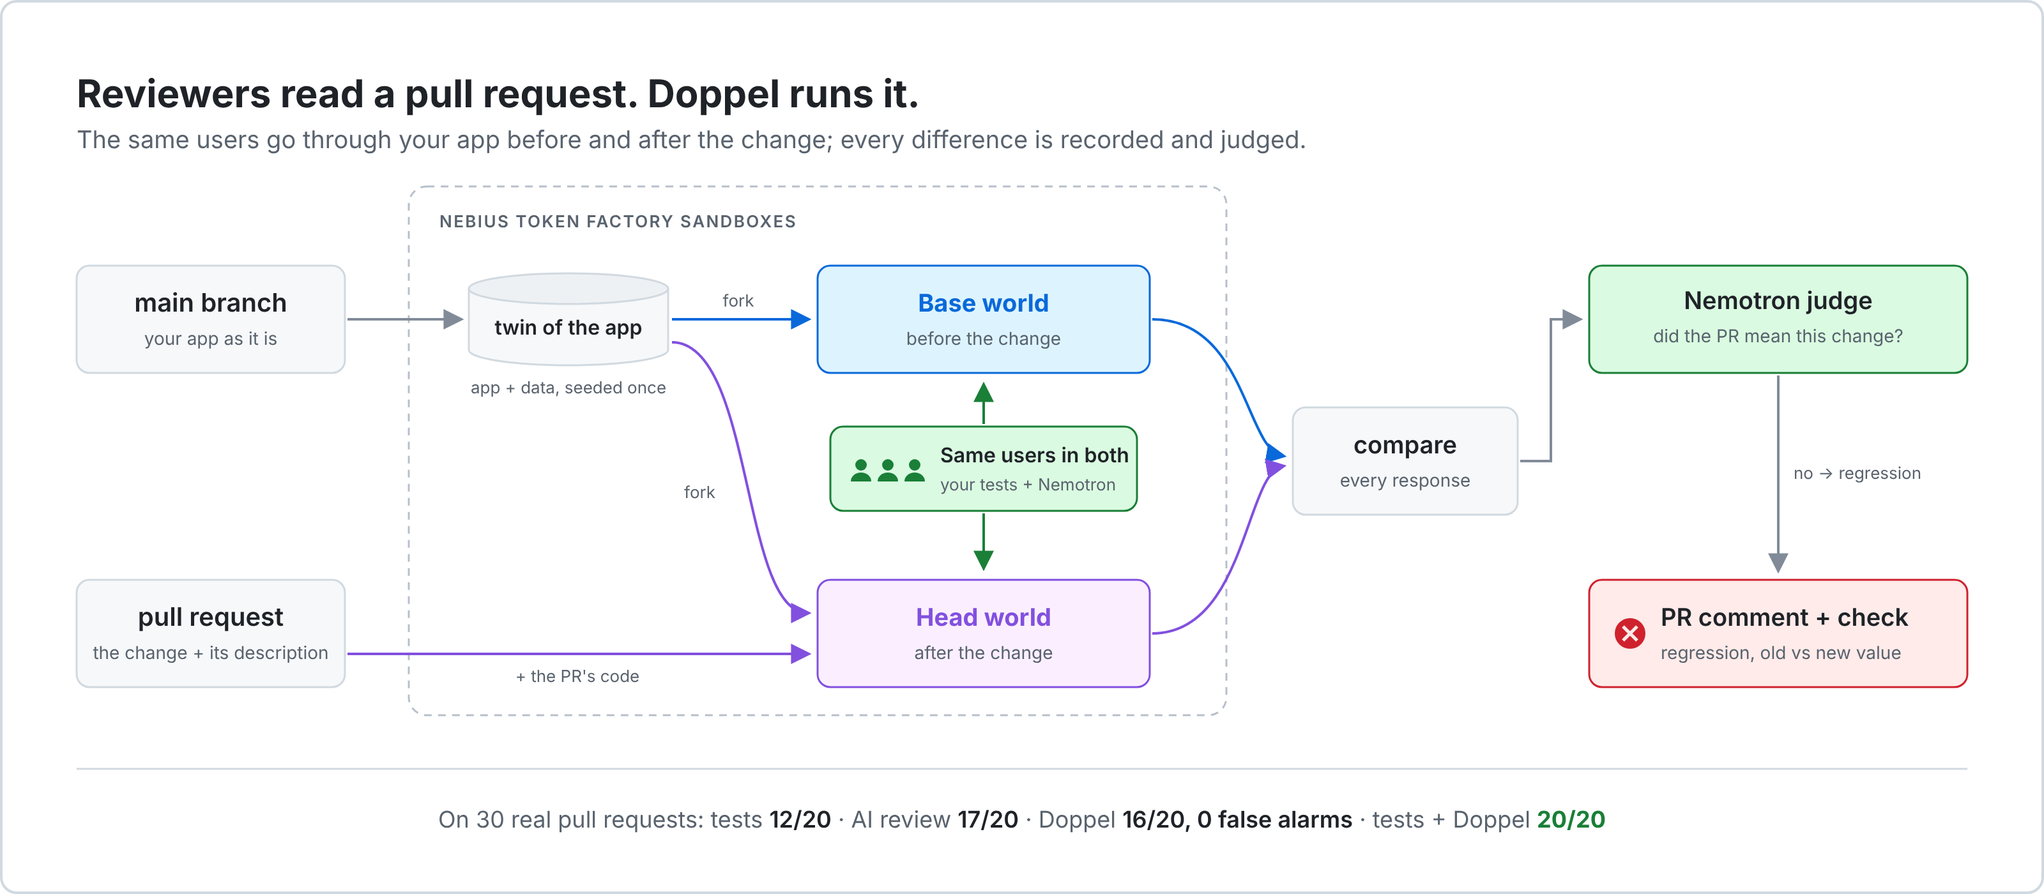
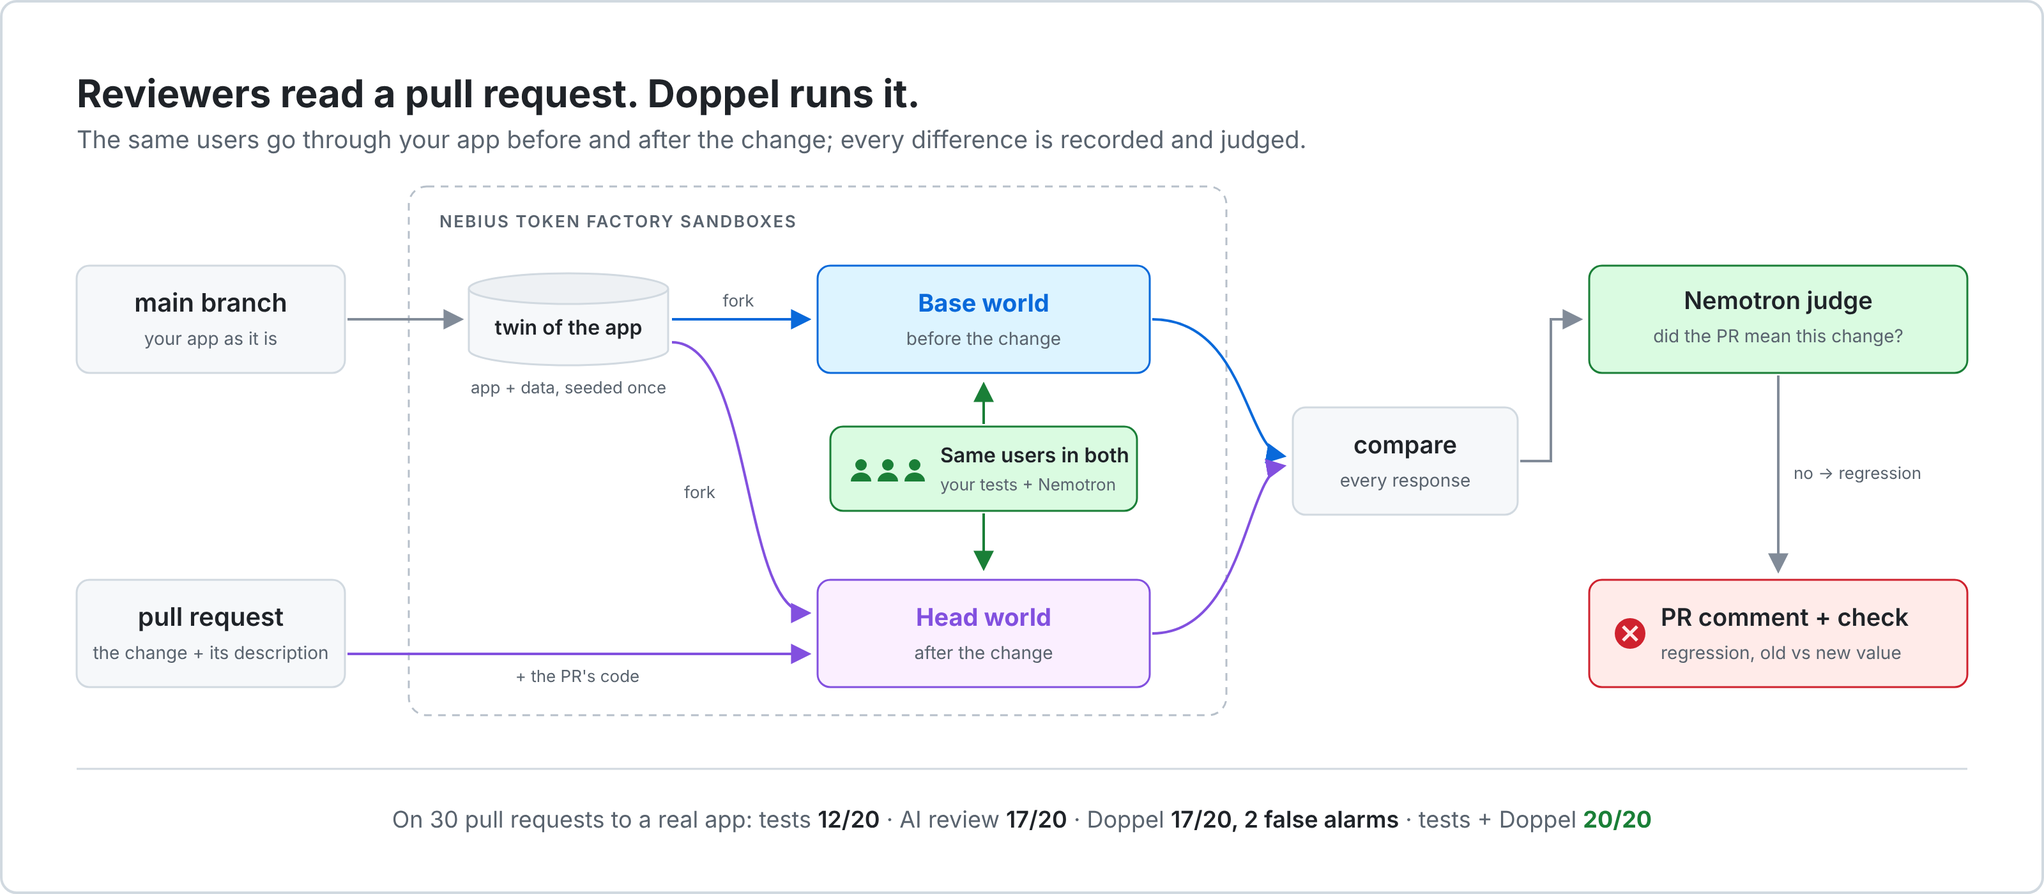
Doppel 1.1.0: masked replay page, init and Try fixes, docs and site match the README numbers
Claude-Session: https://claude.ai/code/session_01Xgti2rmVWC3UhGpJnbEqaD

Changed region(s): [[0.1875, 0.8907, 0.8125, 0.9521]]

diff --git a/try/site/index.html b/try/site/index.html
@@ -195,7 +195,7 @@ footer .wrap { display: flex; flex-wrap: wrap; justify-content: space-between; g
         <p class="says"><b>The PR says:</b> “Back <code>has_password</code> with the actual column so the OpenAPI docs describe it.”</p>
       </div>
       <div class="req"><span>GET /api/users</span><span class="who">from test_auth.py::test_get_token</span></div>
-<pre class="diff"><span class="ctx">  data[0].password_hash</span><span class="del">- (absent)</span><span class="add">+ <b>"scrypt:32768:8:1$vOQdSi9zHZhK00Np$22cfbfb7…"</b></span></pre>
+<pre class="diff"><span class="ctx">  data.*.password_hash (added)</span><span class="del">- no password_hash</span><span class="add">+ <b>"scrypt:32768:8:1$[hidden]"</b></span></pre>
       <div class="ev-why">
         <p>The same field appeared on <b>14 endpoints</b>, in <b>38 requests</b> from 25 tests. No test asserts on it.</p>
         <blockquote>“The diff adds password_hash as a dump_only auto_field, exposing the actual password hash in API

diff --git a/tests/test_final_gaps.py b/tests/test_final_gaps.py
@@ -1,0 +1,124 @@
+"""Gaps found by reading the whole code base line by line (October 2026): each one pinned here."""
+import json
+from pathlib import Path
+
+import yaml
+
+from doppel import bootstrap, cli
+from doppel.diff import Finding
+from doppel.judge import Verdict
+from doppel.report import markdown
+
+HASH = "scrypt:32768:8:1$vOQdSi9zHZhK00Np$22cfbfb704f124cb1e05530805196c98f974925ffe12315e77581c4569b7452"
+ROOT = Path(__file__).resolve().parent.parent
+
+
+def run_json(tmp_path: Path) -> Path:
+    step = {"i": 0, "request": "GET /api/users", "status": 200, "ms": 3.0}
+    raw = {"findings": [{"kind": "body", "persona": "alice", "step": 0, "request": "GET /api/users",
+                         "detail": "changed: password_hash (added)", "base": {"password_hash": "(absent)"},
+                         "head": {"password_hash": HASH}}],
+           "worlds": {"base": [{"persona": "alice", "steps": [{**step, "body": {"id": 1}}]}],
+                      "head": [{"persona": "alice", "steps": [{**step, "body": {"id": 1, "password_hash": HASH}}]}]}}
+    path = tmp_path / "run.json"
+    path.write_text(json.dumps(raw), encoding="utf-8")
+    return path
+
+
+def test_the_replay_page_the_action_publishes_is_masked(tmp_path):
+    # action.yml publishes the twin's run page as replay.html next to the check page: it must be masked too
+    path = run_json(tmp_path)
+    assert cli.main(["view", str(path), "--no-open", "--out", str(tmp_path / "local.html")]) == 0
+    assert HASH in (tmp_path / "local.html").read_text("utf-8")          # your own machine: the raw evidence
+    assert cli.main(["view", str(path), "--no-open", "--public", "--out", str(tmp_path / "public.html")]) == 0
+    page = (tmp_path / "public.html").read_text("utf-8")
+    assert HASH not in page and "scrypt:32768:8:1$" in page             # the leak stays visible, the hash doesn't
+    action = (ROOT / "action.yml").read_text(encoding="utf-8")
+    run_view = next(line for line in action.splitlines() if "doppel view .doppel/out/run.json" in line)
+    assert "--public" in run_view
+
+
+def test_a_public_run_page_that_would_show_a_credential_is_never_written(tmp_path, monkeypatch):
+    path = run_json(tmp_path)
+    data = json.loads(path.read_text("utf-8"))
+    data["worlds"]["head"][0]["steps"][0]["body"]["note"] = "key nb-live-0123456789abcdef"
+    path.write_text(json.dumps(data), encoding="utf-8")
+    monkeypatch.setenv("NEBIUS_API_KEY", "nb-live-0123456789abcdef")
+    assert cli.main(["view", str(path), "--no-open", "--public", "--out", str(tmp_path / "p.html")]) == 2
+    assert not (tmp_path / "p.html").exists()
+
+
+def test_init_check_reads_the_front_door_seed_file_too(tmp_path, monkeypatch):
+    (tmp_path / "app.py").write_text("print('app')\n", encoding="utf-8")
+    (tmp_path / "doppel.toml").write_text('[app]\nstart = "python app.py"\nready = "/"\n'
+                                          'seed_requests = "doppel_seed.json"\n', encoding="utf-8")
+    (tmp_path / "doppel_seed.json").write_text(json.dumps(
+        [{"method": "POST", "path": "/api/users", "json": {"username": "alice", "password": "secret"}}]),
+        encoding="utf-8")
+    monkeypatch.setattr(bootstrap, "try_files", lambda *a, **k: {"ok": True})
+    result = bootstrap.check(tmp_path, backend="local", log=lambda m: None)
+    found = [p for _, problems in result["checks"] for p in problems]
+    assert not any("no doppel_seed.json was returned" in p for p in found)
+
+
+def test_a_swapped_package_keeps_its_version_pin(tmp_path):
+    (tmp_path / "requirements.txt").write_text("flask==3.0\npsycopg2==2.9.9\nuwsgi>=2\n", encoding="utf-8")
+    assert bootstrap.derived_install(tmp_path) == "pip install --quiet 'flask==3.0' 'psycopg2-binary==2.9.9'"
+
+
+def test_401_and_403_are_different_errors_but_ports_and_ids_still_blur():
+    assert not bootstrap.same_error("the login step POST /api/tokens answered 401",
+                                    "the login step POST /api/tokens answered 403")
+    assert bootstrap.same_error("GET /api/users/7 -> 404: not found", "GET /api/users/12 -> 404: not found")
+    assert bootstrap.same_error("could not connect to 127.0.0.1:8123", "could not connect to 127.0.0.1:9440")
+    assert not bootstrap.same_error("GET /api/me -> 401", "GET /api/me -> 500")
+
+
+def test_the_heading_counts_distinct_changes_after_the_judges_own_rules():
+    # the secret rule gives each finding of one change its own (equal) verdict: still one change, not two
+    findings = [Finding("body", f"t{i}", 0, f"GET /api/users/{i}", "changed: password_hash (added)",
+                        {"password_hash": "(absent)"}, {"password_hash": HASH}) for i in (1, 2)]
+    why = "Changes `password_hash`, a field that looks like it holds a secret."
+    verdicts = [Verdict("needs_human", why), Verdict("needs_human", why)]
+    md = markdown(findings, 2, 2, {"verdicts": verdicts, "summary": ""}, who="test")
+    assert "0 regression · 1 need a human · 0 intended" in md
+
+
+def test_refuted_suspicions_look_the_same_in_the_comment_and_on_the_page():
+    from doppel import report
+    assert report.CHECK["refuted"] == "⚪ refuted"
+
+
+def test_the_example_workflow_can_publish_its_check_page():
+    flow = yaml.safe_load((ROOT / "examples" / "demo-repo" / "main" / "doppel.yml").read_text(encoding="utf-8"))
+    assert flow["permissions"] == {"contents": "write", "pull-requests": "write"}
+
+
+def test_declined_try_issues_do_not_use_up_the_day(monkeypatch):
+    import datetime as dt
+    import importlib.util
+    spec = importlib.util.spec_from_file_location("try_pr", ROOT / "try" / "scripts" / "try_pr.py")
+    mod = importlib.util.module_from_spec(spec)
+    spec.loader.exec_module(mod)
+    asked = []
+    monkeypatch.setattr(mod, "_request", lambda method, path, body=None: asked.append(path) or {"total_count": 3})
+    assert mod.runs_today("me/doppel-try", dt.datetime(2026, 10, 25, tzinfo=dt.UTC)) == 3
+    assert "-label%3A%22not%20run%22" in asked[0]
+
+
+def test_the_replay_site_shows_the_numbers_the_readme_quotes(tmp_path):
+    from doppel import site
+    grouping = ROOT / "bench" / "results" / "guided-rerun-grouping"
+    if not (grouping / "r17-hash-leak.json").exists():
+        return   # the recorded benchmark results aren't in this checkout
+    s = site.bench_scores(ROOT / "bench" / "results", guided=grouping)
+    assert {k: (v["caught"], v.get("alarms")) for k, v in s.items()} == {
+        "tests": (12, 0), "review": (17, 1), "doppel_guided": (17, 2), "tests_plus_guided": (20, None)}
+    cfg = json.loads((ROOT / "site" / "gallery.json").read_text(encoding="utf-8"))
+    assert cfg["bench_guided"] == "bench/results/guided-rerun-grouping"
+    chart = (ROOT / cfg["chart"]).read_text(encoding="utf-8")
+    assert ">17/20<" in chart and ">2/10<" in chart and ">16/20<" not in chart
+
+
+def test_a_pr_that_edits_the_front_door_seed_gets_the_setup_warning():
+    assert "doppel_seed.json" in cli.SETUP_FILES

diff --git a/src/doppel/cli.py b/src/doppel/cli.py
@@ -158,7 +158,7 @@ def cmd_tests(a) -> int:
     return 0
 
 
-SETUP_FILES = ("doppel.toml", "doppel_seed.py", "doppel-personas.json")
+SETUP_FILES = ("doppel.toml", "doppel_seed.py", "doppel_seed.json", "doppel-personas.json")
 
 
 def load_spec(base, head, explicit: str | None = None) -> TwinSpec:
@@ -268,7 +268,7 @@ def cmd_view(a) -> int:
     if is_check(path):
         out = write_check_view(path, Path(a.out) if a.out else None, public=getattr(a, "public", False))
     elif is_run(path):
-        out = write_run_view(path, Path(a.out) if a.out else None)
+        out = write_run_view(path, Path(a.out) if a.out else None, public=getattr(a, "public", False))
     elif is_trace(path):
         out = write_view(path, Path(a.out) if a.out else None)
     else:
@@ -353,7 +353,8 @@ def main(argv=None) -> int:
     g.add_argument("-n", type=int, default=12, help="how many personas")
     g.add_argument("--model", help="default: $PERSONA_MODEL or nvidia/Nemotron-3_5-Lightning")
     g.add_argument("--out", default="personas.json")
-    i = sub.add_parser("init", help="write doppel.toml and doppel_seed.py for an app, checked in the twin")
+    i = sub.add_parser("init", help="write doppel.toml and a seed (doppel_seed.json / .py) for an app, "
+                                    "checked in the twin")
     i.add_argument("app", nargs="?", default=".", help="the app's folder (default: current folder)")
     i.add_argument("--backend", choices=["local", "nebius"], default="nebius",
                    help="where to try the setup (local uses your current Python environment)")
@@ -368,12 +369,13 @@ def main(argv=None) -> int:
     i.add_argument("--trace", action="store_true",
                    help="save every attempt (prompt, reply, checks, boot, evidence) to .doppel-trace/")
     i.add_argument("--check", action="store_true",
-                   help="test the doppel.toml and doppel_seed.py already in the app, without drafting")
+                   help="test the doppel.toml and seed already in the app, without drafting")
     i.add_argument("--calibrate", action="store_true",
                    help="with --check: also replay invented users (costs model calls and a second boot)")
-    i.add_argument("--force", action="store_true", help="overwrite existing doppel.toml / doppel_seed.py")
+    i.add_argument("--force", action="store_true", help="overwrite existing doppel.toml / seed files")
     i.add_argument("--keep-draft", action="store_true", help="write the last draft even if it failed")
-    v = sub.add_parser("view", help="turn a run (run.json) or an init trace into a web page and open it")
+    v = sub.add_parser("view", help="turn a run (run.json), a check (check.json) or an init trace into a web "
+                                    "page and open it")
     v.add_argument("path", nargs="?", default=".doppel-trace",
                    help="run.json, a folder holding it, or an init trace folder (default: .doppel-trace)")
     v.add_argument("--out", help="where to write the page (default: doppel-view.html next to the trace)")

diff --git a/src/doppel/bootstrap.py b/src/doppel/bootstrap.py
@@ -361,7 +361,11 @@ def derived_install(repo: str | Path) -> str:
     reqs, _ = dependencies(repo)
     keep = []
     for r in reqs:
-        swap = NEEDS_COMPILER.get(_req_name(r), r) if _req_name(r) in NEEDS_COMPILER else r
+        swap = r
+        if _req_name(r) in NEEDS_COMPILER:
+            to = NEEDS_COMPILER[_req_name(r)]
+            # psycopg2==2.9.9 -> psycopg2-binary==2.9.9: the binary build keeps the version the app pinned
+            swap = to and to + re.sub(r"^\s*[A-Za-z0-9_.-]+", "", r.strip(), count=1)
         if swap:
             keep.append("'" + swap.replace("'", "") + "'")
     return "pip install --quiet " + " ".join(keep) if keep else ""
@@ -834,11 +838,16 @@ def removed_api_uses(repo: str | Path, tree: ast.Module) -> list[str]:
     return problems
 
 
+STATUS_BEFORE = re.compile(r"(?:\banswered|\bstatus|\brefused with|\bHTTP|->|\u2192)\s*$")
+
+
 def same_error(a: str, b: str) -> bool:
     """Two error lines say the same thing once temp paths, ports and ids are blanked out."""
     def norm(line: str) -> str:
         line = re.sub(r"(?:[A-Za-z]:)?[\\/][^\s'\":]*doppel-[^\s'\":]*", "<tmp>", line)
-        return re.sub(r"\d+", "N", line).strip()
+        # an HTTP status is the error itself (401 is not 403); other numbers are ports, ids and times
+        return re.sub(r"\d+", lambda m: m.group() if STATUS_BEFORE.search(line[:m.start()]) and
+                      re.fullmatch(r"[1-5]\d\d", m.group()) else "N", line).strip()
     return bool(a and b) and norm(a) == norm(b)
 
 
@@ -1388,7 +1397,8 @@ def check(repo: str | Path, backend: str = "nebius", calibrate: bool = False, ru
     """`doppel init --check`: test the doppel.toml and doppel_seed.py already in the repo, with no model
     drafting. For a human finishing the last step, and for seeing what each safety net catches."""
     repo = Path(repo).resolve()
-    files = {n: (repo / n).read_text("utf-8") for n in (SPEC_FILE, SEED_FILE) if (repo / n).is_file()}
+    files = {n: (repo / n).read_text("utf-8") for n in (SPEC_FILE, SEED_FILE, SEED_REQUESTS_FILE)
+             if (repo / n).is_file()}
     if SPEC_FILE not in files:
         return {"ok": False, "error": f"no {SPEC_FILE} in {repo}", "checks": []}
     checked = run_checks(repo, files)

diff --git a/src/doppel/site.py b/src/doppel/site.py
@@ -138,10 +138,21 @@ def from_bench(result: dict, arm: str = "doppel_guided", pr: dict | None = None)
             "app": "microblog-api"}
 
 
-def bench_scores(folder: Path, set_name: str = "main") -> dict:
-    """Same scoring as bench/summarize.py: caught on regression PRs, alarms on safe PRs."""
+def bench_scores(folder: Path, set_name: str = "main", guided: Path | None = None) -> dict:
+    """Same scoring as bench/summarize.py: caught on regression PRs, alarms on safe PRs.
+    guided: a later rerun's folder; its review-guided results replace the first run's, and the arms the README
+    doesn't quote (Doppel without the reviewer) are left out, so the site shows the README's numbers."""
     rows = [json.loads(p.read_text("utf-8")) for p in sorted(Path(folder).glob("*.json"))]
     rows = [r for r in rows if r.get("set", "main") == set_name]
+    if guided:
+        for r in rows:
+            later = Path(guided) / f"{r.get('id')}.json"
+            r.pop("doppel", None)
+            r.pop("doppel_guided", None)
+            if later.is_file():
+                arm = json.loads(later.read_text("utf-8")).get("doppel_guided")
+                if isinstance(arm, dict):
+                    r["doppel_guided"] = arm
     reg = [r for r in rows if r["kind"] == "regression"]
     safe = [r for r in rows if r["kind"] == "safe"]
     out = {}
@@ -224,7 +235,9 @@ def build(gallery: Path, out: Path, root: Path | None = None, env: dict | None =
                       "story": entry.get("story", ""), "tone": tone, "verdict": verdict, "compare": compare,
                       "recorded": entry.get("recorded", ""), "users": len(data["users"]),
                       "requests": sum(len(u["steps"]) for u in data["users"])})
-    scores = bench_scores(root / cfg["bench"]) if cfg.get("bench") and (root / cfg["bench"]).is_dir() else {}
+    guided = root / cfg["bench_guided"] if cfg.get("bench_guided") else None
+    scores = bench_scores(root / cfg["bench"], guided=guided) if cfg.get("bench") and (root / cfg["bench"]).is_dir() \
+        else {}
     chart = root / cfg["chart"] if cfg.get("chart") else None
     if chart and chart.is_file():
         shutil.copy(chart, out / "chart.svg")

diff --git a/src/doppel/report.py b/src/doppel/report.py
@@ -15,12 +15,6 @@ SECTION = {"regression": "🚨 Regressions: not mentioned in the PR",
            "intended": "✅ Intended: matches the PR description"}
 
 
-def _short(value, n: int = 120) -> str:
-    text = json.dumps(value, ensure_ascii=False, default=str)
-    text = text if len(text) <= n else text[: n - 1] + "…"
-    return text.replace("|", "\\|").replace("`", "'")  # keep the Markdown table intact
-
-
 WHO = {"persona": ("Persona", "personas replayed", "step"),
        "test": ("Test", "of the app's own tests sent", "request")}
 _who = ["persona"]   # set by markdown(); the table helpers read it
@@ -67,7 +61,7 @@ def coverage_line(cov: dict | None) -> str:
     return line + note
 
 
-CHECK = {"confirmed": "🔴 confirmed", "intended": "🟢 confirmed, intended", "refuted": "🟢 refuted",
+CHECK = {"confirmed": "🔴 confirmed", "intended": "🟢 confirmed, intended", "refuted": "⚪ refuted",
          "untested": "⚪ untested"}
 
 
@@ -167,8 +161,10 @@ def _markdown(findings: list[Finding], personas: int, steps: int, judged: dict |
     verdicts = judged["verdicts"]
     by_label = {label: [(f, v) for f, v in zip(findings, verdicts, strict=True) if v.label == label]
                 for label in SECTION}
-    # the judge shares one verdict per distinct change, so count verdicts, not rows
-    n_reg, n_hum, n_int = (len({id(v) for _, v in by_label[k]}) for k in ("regression", "needs_human", "intended"))
+    # one verdict per distinct change: count verdicts, not rows. The judge's later rules (a secret field, a new
+    # route, a confirmed suspicion) replace a verdict finding by finding with equal ones, so count by content
+    n_reg, n_hum, n_int = (len({(v.label, v.why) for _, v in by_label[k]})
+                           for k in ("regression", "needs_human", "intended"))
     head = (f"## Doppel: {n_reg} regression{'' if n_reg == 1 else 's'} the PR doesn't mention" if n_reg
             else "## Doppel: no regressions")
     lines = [head, "", f"{replayed} Distinct changes: {n_reg} regression · {n_hum} need a human · "

diff --git a/src/doppel/viewer.py b/src/doppel/viewer.py
@@ -310,11 +310,16 @@ def is_run(path: Path) -> bool:
         return False
 
 
-def load_run(path: Path) -> dict:
+def load_run(path: Path, public: bool = False) -> dict:
+    """public: mask secrets, tokens and password hashes first, as the replay site and the check page do."""
     path = Path(path)
     if path.is_dir():
         path = path / "run.json"
-    return run_data(json.loads(path.read_text("utf-8")), path.resolve().parent.name)
+    raw = json.loads(path.read_text("utf-8"))
+    if public:
+        from doppel.site import sanitize
+        raw = sanitize(raw)
+    return run_data(raw, path.resolve().parent.name)
 
 
 def run_data(raw: dict, app: str = "app") -> dict:
@@ -359,10 +364,16 @@ def render_run(data: dict, nav: str = "") -> str:
             .replace("__NAV__", nav).replace("__DATA__", payload))
 
 
-def write_run_view(path: Path, out: Path | None = None) -> Path:
+def write_run_view(path: Path, out: Path | None = None, public: bool = False) -> Path:
+    """public: a page others will see (the Action publishes it as replay.html): credentials are masked, and a
+    page that would still show a credential from this environment is never written."""
     path = Path(path)
     out = Path(out) if out else (path if path.is_dir() else path.parent) / "doppel-run.html"
-    out.write_text(render_run(load_run(path)), encoding="utf-8")
+    page = render_run(load_run(path, public=public))
+    if public:
+        from doppel.site import check_secrets
+        check_secrets(page, out.name)
+    out.write_text(page, encoding="utf-8")
     return out
 
 

diff --git a/bench/verify_numbers.py b/bench/verify_numbers.py
@@ -34,7 +34,19 @@ def main(argv=None) -> int:
     ap = argparse.ArgumentParser(description=__doc__.split("\n")[0])
     ap.add_argument("--guided", type=Path, default=RESULTS / "guided-rerun-grouping",
                     help="folder with the review-guided Doppel results (default: the one the README quotes)")
+    ap.add_argument("--chart", type=Path,
+                    help="also write the bar chart of these numbers (the replay site shows it), e.g. "
+                         "bench/results/guided-rerun-grouping/chart.svg")
     a = ap.parse_args(argv)
+    if a.chart:
+        import sys
+        sys.path.insert(0, str(BENCH))
+        from summarize import chart
+
+        from doppel.site import bench_scores
+        scores = bench_scores(RESULTS, guided=a.guided)
+        a.chart.write_text(chart({k: v for k, v in scores.items() if k in ("tests", "review", "doppel_guided")}),
+                           encoding="utf-8")
     prs = json.loads((BENCH / "microblog" / "prs" / "index.json").read_text(encoding="utf-8"))
     print(f"Review-guided Doppel from {a.guided}\n")
     for set_name in ("main", "heldout", "consequence"):

diff --git a/try/scripts/try_pr.py b/try/scripts/try_pr.py
@@ -75,9 +75,10 @@ def decline(text: str) -> int:
 
 
 def runs_today(repo: str, now: dt.datetime) -> int:
-    """Issues opened in this repo during the last 24 hours (this one included)."""
+    """Runs started in this repo during the last 24 hours (this one included). Issues declined without a run
+    (labelled "not run": no link, a private PR, a repo too big) don't count, so they can't use up the day."""
     since = (now - dt.timedelta(hours=24)).strftime("%Y-%m-%dT%H:%M:%SZ")
-    query = urllib.parse.quote(f"repo:{repo} is:issue created:>={since}")
+    query = urllib.parse.quote(f'repo:{repo} is:issue created:>={since} -label:"{LABELS[3][0]}"')
     return int(_request("GET", f"/search/issues?q={query}&per_page=1").get("total_count", 0))
 
 

diff --git a/tests/test_init.py b/tests/test_init.py
@@ -439,7 +439,7 @@ LOGIN_SPEC = ('[app]\ninstall = "pip install django"\nstart = "python app.py"\nr
 def test_install_is_derived_from_the_dependency_list_without_compiled_packages(tmp_path):
     (tmp_path / "pyproject.toml").write_text(PYPROJECT)
     cmd = bootstrap.derived_install(tmp_path)
-    assert cmd == ("pip install --quiet 'django>=6.0.7' 'djangorestframework>=3.16' 'psycopg2-binary' "
+    assert cmd == ("pip install --quiet 'django>=6.0.7' 'djangorestframework>=3.16' 'psycopg2-binary>=2.9' "
                    "'huey>=2.5'")
     hint = bootstrap.install_hint(tmp_path)
     assert "derived by Doppel from pyproject.toml (uwsgi, psycopg2 removed" in hint and cmd in hint

diff --git a/src/doppel/backends/local.py b/src/doppel/backends/local.py
@@ -196,11 +196,6 @@ def replay_world(world: Path, spec: TwinSpec, personas: list[dict], work: Path, 
     return out
 
 
-def run_world(code_dir: Path, seeded: Path, spec: TwinSpec, personas: list[dict], work: Path) -> list[dict]:
-    world = build_world(code_dir, seeded, spec, work)
-    return [r for r in replay_world(world, spec, personas, work) if isinstance(r, dict)]
-
-
 def run_twin(base_dir: str | Path, head_dir: str | Path, spec: TwinSpec, personas: list[dict],
              refine=None, watch: dict | None = None) -> dict:
     """Returns {"base": recordings, "head": recordings, "failed": [...], "personas": [...],

diff --git a/src/doppel/__init__.py b/src/doppel/__init__.py
@@ -1,3 +1,3 @@
 """Doppel: a twin of your app that tries every pull request first."""
 
-__version__ = "1.0.0"
+__version__ = "1.1.0"
